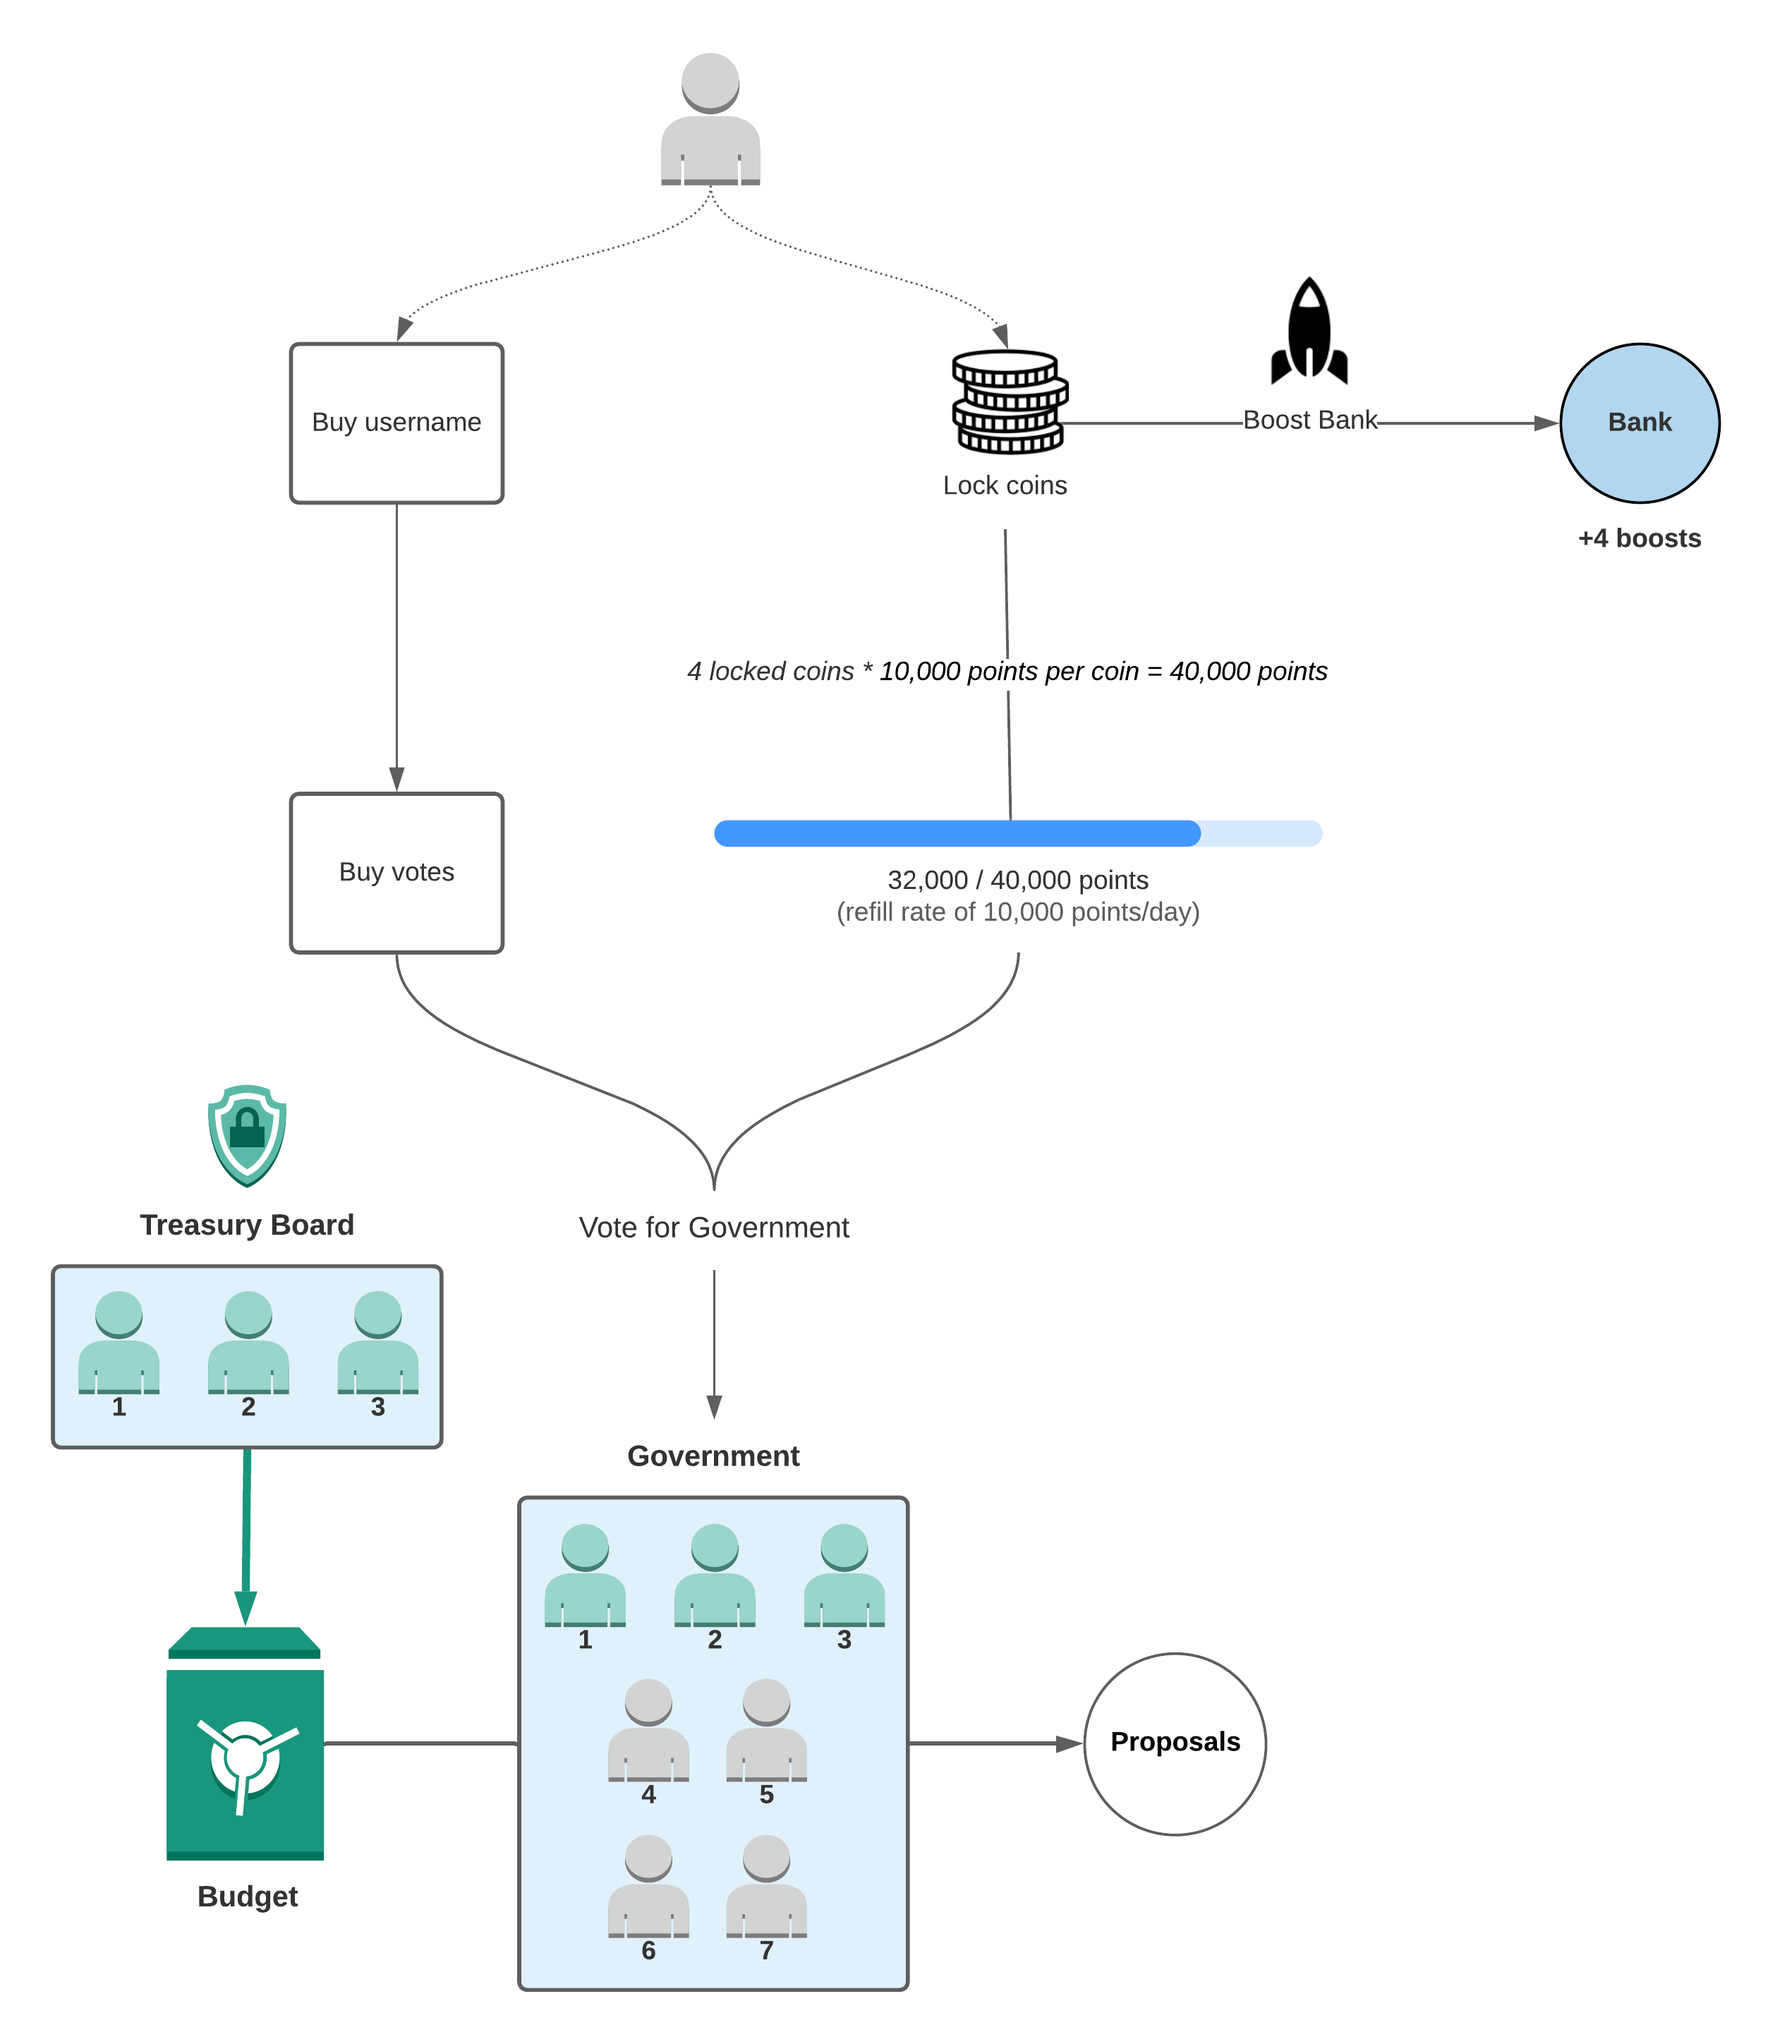
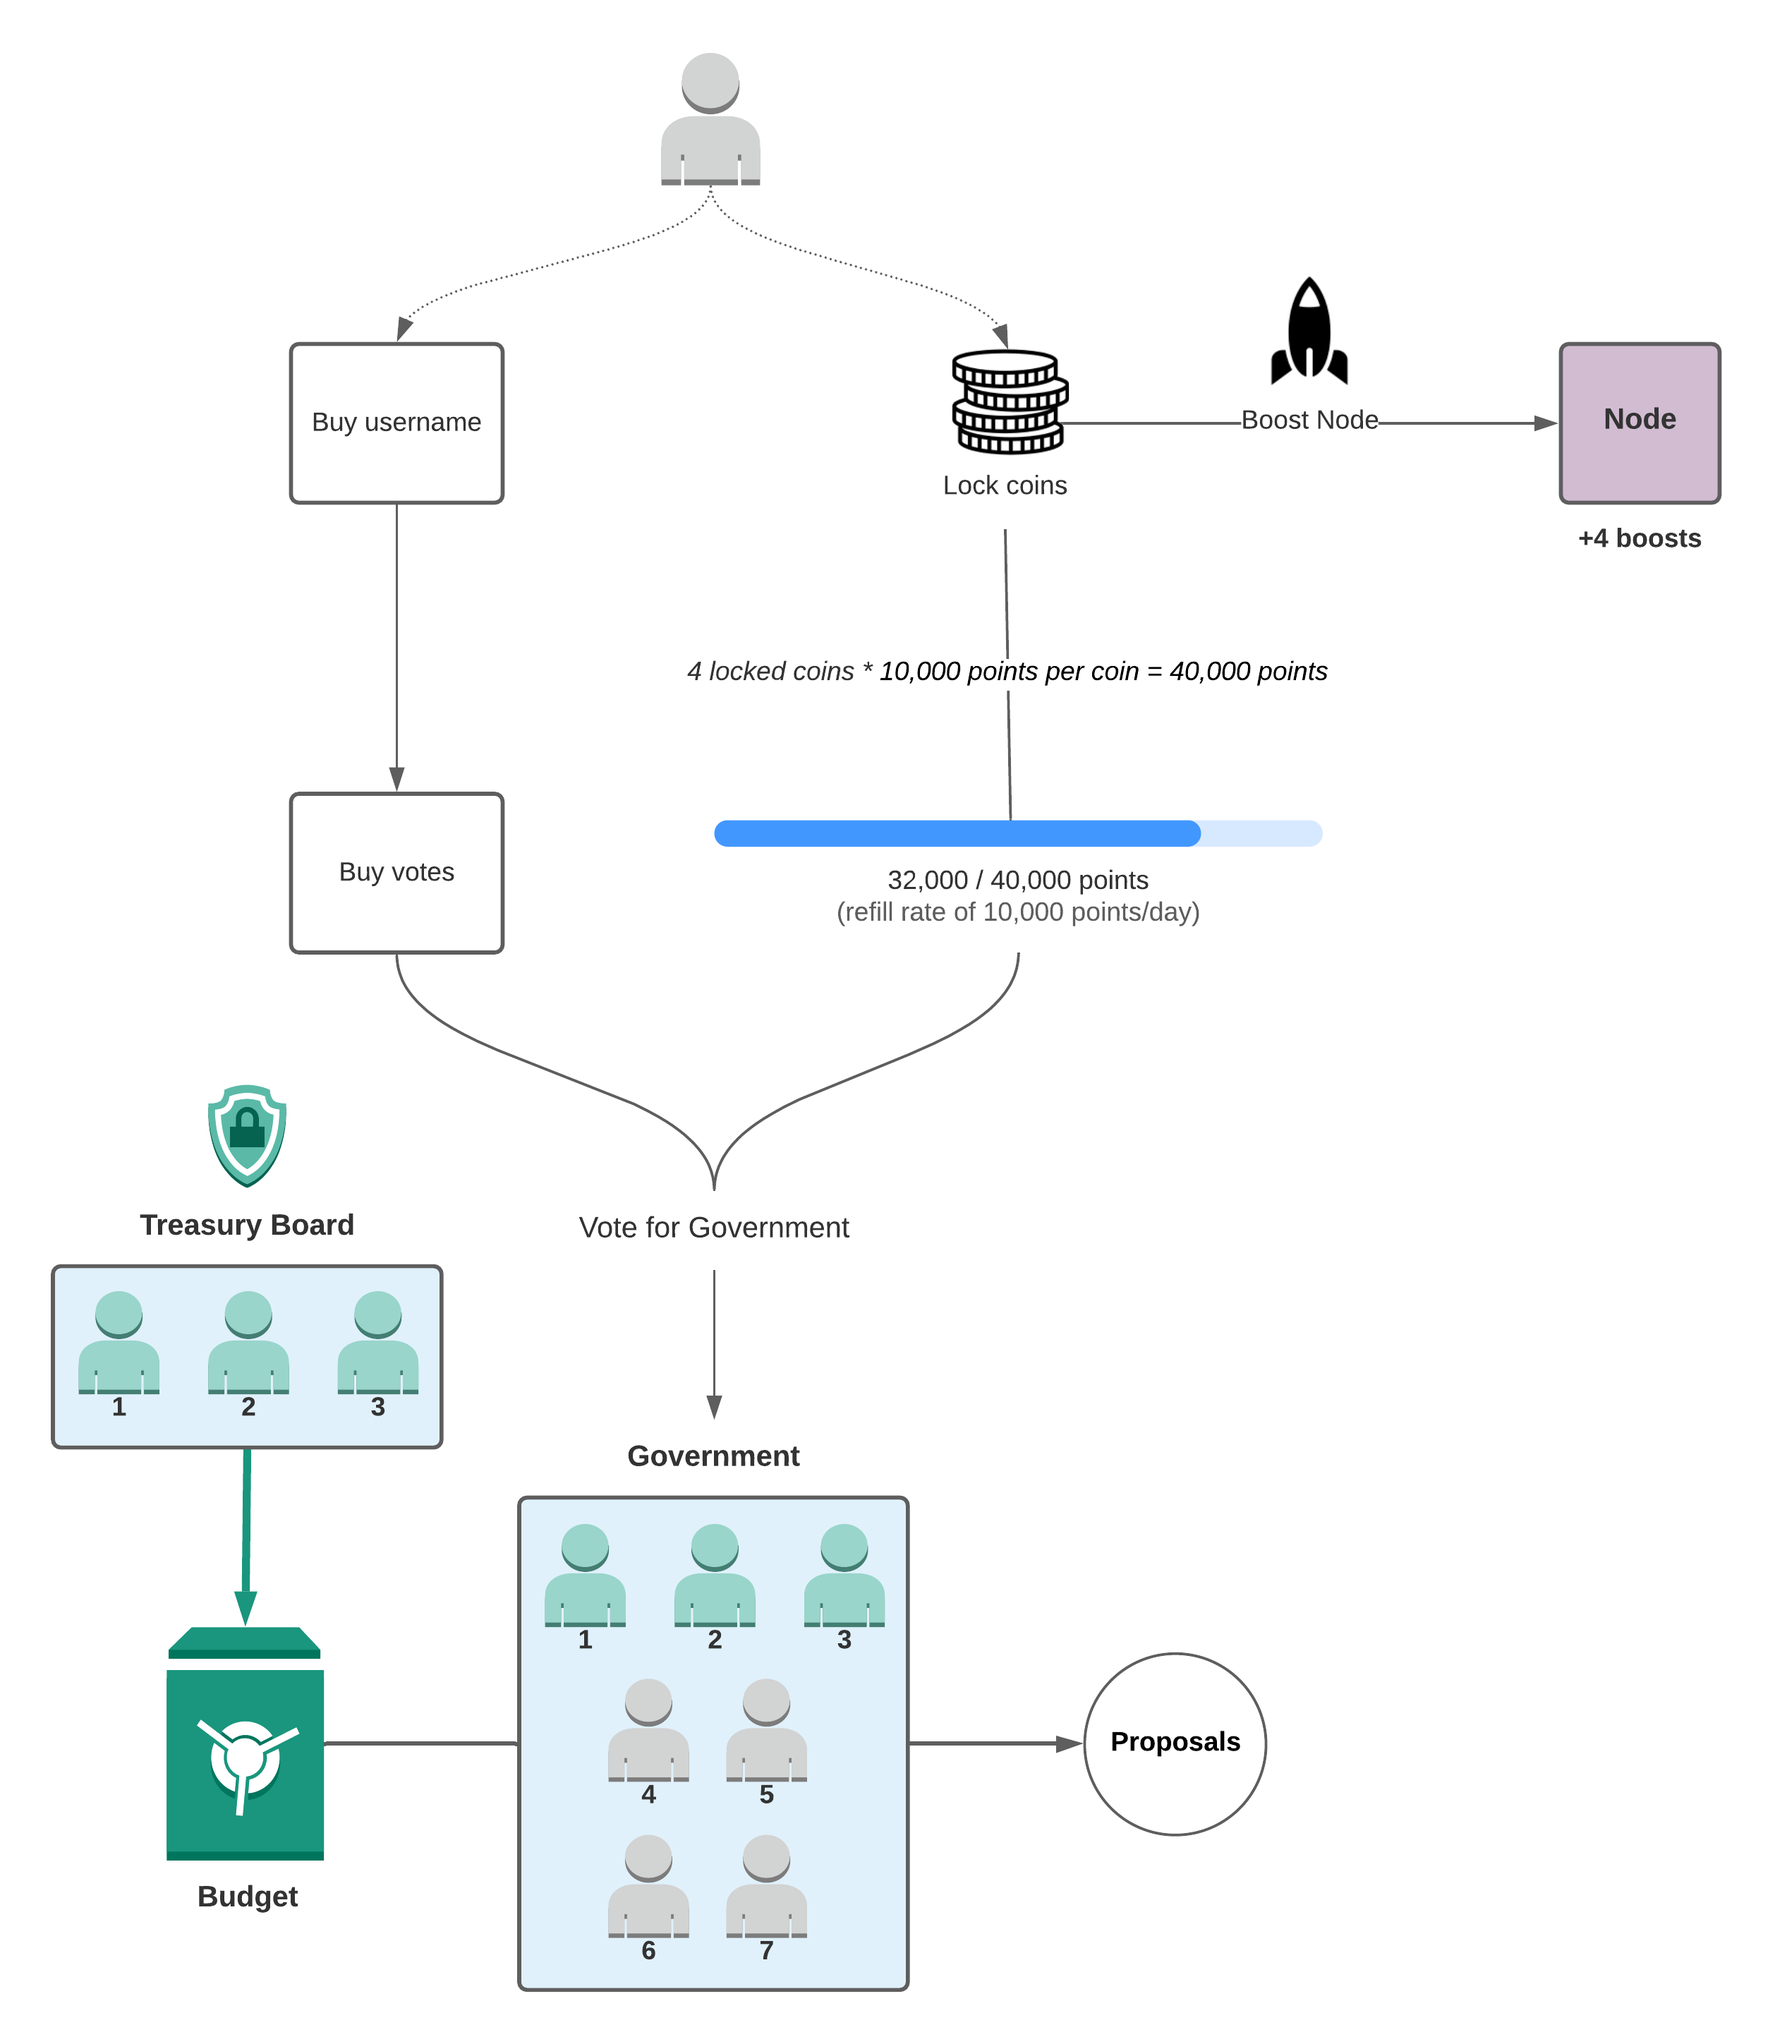
Governance doc updates

Changed region(s): [[0.868, 0.1553, 0.9921, 0.2485], [0.713, 0.1864, 0.775, 0.2175]]

diff --git a/src/containers/Governance/GovernanceLockedCoinsAndBoosting/index.tsx b/src/containers/Governance/GovernanceLockedCoinsAndBoosting/index.tsx
@@ -2,14 +2,14 @@ import React, {FC} from 'react';
 
 import {DocContainer, DocImage, DocList} from 'components';
 
-import BankBoosting from './BankBoosting.png';
+import NodeBoosting from './NodeBoosting.png';
 
-const GovernanceLockedCoinsAndBankBoosting: FC = () => {
+const GovernanceLockedCoinsAndBoosting: FC = () => {
   return (
     <DocContainer
-      className="GovernanceLockedCoinsAndBankBoosting"
-      title="Locked Coins & Bank Boosting"
-      lastUpdated="15 Feb 2021"
+      className="GovernanceLockedCoinsAndBoosting"
+      title="Locked Coins & Boosting"
+      lastUpdated="07 Mar 2021"
     >
       <p>
         Registered users have the ability to lock any amount of coins that they own. By locking coins, the network will
@@ -21,7 +21,7 @@ const GovernanceLockedCoinsAndBankBoosting: FC = () => {
 
       <DocList variant="ul">
         <li>Points</li>
-        <li>The ability to boost a Bank of their choosing</li>
+        <li>The ability to boost a node of their choosing</li>
       </DocList>
 
       <p>
@@ -32,14 +32,14 @@ const GovernanceLockedCoinsAndBankBoosting: FC = () => {
       </p>
 
       <p>
-        The top X boosted Banks in the network will act as delegates to elect a PV. The weight of a Bank's vote is equal
-        to the total amount of boosts they recieve. In the event of a tie, the X + 1 boosted Bank will break the tie.
-        The amount of locked coins along with the Bank the user chooses to boost will be stored on the blockchain.
+        The top X boosted nodes in the network will act as delegates to elect a PV. The weight of a nodes vote is equal
+        to the total amount of boosts they receive. In the event of a tie, the X + 1 boosted node will break the tie.
+        The amount of locked coins along with the node the user chooses to boost will be stored on the blockchain.
       </p>
 
-      <DocImage alt="bank-boosting" maxWidth={720} src={BankBoosting} />
+      <DocImage alt="node boosting" maxWidth={640} src={NodeBoosting} />
     </DocContainer>
   );
 };
 
-export default GovernanceLockedCoinsAndBankBoosting;
+export default GovernanceLockedCoinsAndBoosting;

diff --git a/src/containers/Governance/GovernanceElectionProcess/index.tsx b/src/containers/Governance/GovernanceElectionProcess/index.tsx
@@ -4,13 +4,9 @@ import {DocContainer, DocImage, DocList} from 'components';
 
 import ApplicationAndElectionProcess from './ApplicationAndElectionProcess.png';
 
-const GovernanceApplicationAndElectionProcess: FC = () => {
+const GovernanceElectionProcess: FC = () => {
   return (
-    <DocContainer
-      className="GovernanceApplicationAndElectionProcess"
-      title="Application & Election Process"
-      lastUpdated="15 Feb 2021"
-    >
+    <DocContainer className="GovernanceElectionProcess" title="Election Process" lastUpdated="07 Mar 2021">
       <p>
         Registered users can use points to apply for government positions. Once an application is submitted all
         registered users (excluding the candidate) can begin voting for that candidate. The top X candidates will be
@@ -18,20 +14,18 @@ const GovernanceApplicationAndElectionProcess: FC = () => {
         responsible for minting new coins.
       </p>
 
-      <DocImage alt="app;icationandelectionprocess" maxWidth={720} src={ApplicationAndElectionProcess} />
+      <DocImage alt="application and election process" maxWidth={560} src={ApplicationAndElectionProcess} />
 
       <p>
         The voting process is an ongoing process. Throughout the voting process, users can change or remove their vote
         at any time. Once a member of government has been elected, they will remain seated until bumped out by a higher
         voted applicant.
       </p>
-
       <p>
         All network actions including applying for government positions, updating applications, voting for applicants,
         etc… require the use of points. All actions and voting records will be publicly visible and stored on the
         blockchain.
       </p>
-
       <p>No government actions can be taken until the following requirements are met:</p>
 
       <DocList variant="ol">
@@ -42,4 +36,4 @@ const GovernanceApplicationAndElectionProcess: FC = () => {
   );
 };
 
-export default GovernanceApplicationAndElectionProcess;
+export default GovernanceElectionProcess;

diff --git a/src/containers/Governance/index.tsx b/src/containers/Governance/index.tsx
@@ -7,11 +7,11 @@ import {PageData, PageDataObject} from 'types/page-data';
 
 import GovernanceBudgets from './GovernanceBudgets';
 import GovernanceCoinsVsPoints from './GovernanceCoinsVsPoints';
-import GovernanceApplicationAndElectionProcess from './GovernanceApplicationAndElectionProcess';
-import GovernanceLockedCoinsAndBankBoosting from './GovernanceLockedCoinsAndBankBoosting';
+import GovernanceElectionProcess from './GovernanceElectionProcess';
+import GovernanceLockedCoinsAndBoosting from './GovernanceLockedCoinsAndBoosting';
+import GovernanceOverview from './GovernanceOverview';
 import GovernancePointsAndRefillLogic from './GovernancePointsAndRefillLogic';
 import GovernanceUsernamesAndVotes from './GovernanceUsernamesAndVotes';
-import GovernanceOverview from './GovernanceOverview';
 
 const defaultPageData: PageData = {
   content: <Redirect to="/governance/overview" />,
@@ -19,10 +19,6 @@ const defaultPageData: PageData = {
 };
 
 const pageData: PageDataObject = {
-  'application-and-election-process': {
-    content: <GovernanceApplicationAndElectionProcess />,
-    name: 'Application & Election Process',
-  },
   budgets: {
     content: <GovernanceBudgets />,
     name: 'Budgets',
@@ -31,9 +27,13 @@ const pageData: PageDataObject = {
     content: <GovernanceCoinsVsPoints />,
     name: 'Coins vs Points',
   },
-  'locked-coins-and-banking-boosting': {
-    content: <GovernanceLockedCoinsAndBankBoosting />,
-    name: 'Locked Coins & Bank Boosting',
+  'election-process': {
+    content: <GovernanceElectionProcess />,
+    name: 'Election Process',
+  },
+  'locked-coins-and-boosting': {
+    content: <GovernanceLockedCoinsAndBoosting />,
+    name: 'Locked Coins & Boosting',
   },
   overview: {
     content: <GovernanceOverview />,

diff --git a/src/containers/Governance/GovernanceOverview/index.tsx b/src/containers/Governance/GovernanceOverview/index.tsx
@@ -10,10 +10,7 @@ const GovernanceOverview: FC = () => {
       <TableVertical
         altColors
         rows={[
-          [
-            'Boosts',
-            'Locked coins that represent a users trust in a Bank to act as their representative when choosing a PV',
-          ],
+          ['Boosts', 'Locked coins that represent a users trust in a node to act as a network representative'],
           ['Budget', 'A shared account managed by the government that requires a multisig to access'],
           ['Daily Refill Rate', 'The rate at which points replenish per network day'],
           ['Government', 'A group of individuals elected by registered users to govern'],
@@ -27,7 +24,13 @@ const GovernanceOverview: FC = () => {
     );
   };
   return (
-    <DocContainer className="GovernanceOverview" title="Overview" lastUpdated="15 Feb 2021">
+    <DocContainer className="GovernanceOverview" title="Overview" lastUpdated="07 Mar 2021">
+      <p>
+        Our governance structure enables user voting for all core aspects of the network, both in terms of people and
+        nodes. Any user from the public is able to apply to become a governor where other users are then able to vote
+        for their desired candidates. The nodes that are responsible for the initial validation of transactions are also
+        chosen by the users through a "boosting" system as described in later sections.
+      </p>
       {renderGlossary()}
       <DocImage alt="governance-overview" maxWidth={1200} src={Overview} />
     </DocContainer>

diff --git a/src/containers/Governance/GovernanceUsernamesAndVotes/index.tsx b/src/containers/Governance/GovernanceUsernamesAndVotes/index.tsx
@@ -6,7 +6,7 @@ import {DocContainer} from 'components';
 
 const GovernanceUsernamesAndVotes: FC = () => {
   return (
-    <DocContainer className="GovernanceUsernamesAndVotes" title="Usernames & Votes" lastUpdated="15 Feb 2021">
+    <DocContainer className="GovernanceUsernamesAndVotes" title="Usernames & Votes" lastUpdated="07 Mar 2021">
       <p>
         Usernames may be purchased for a fee that will be paid directly to the budget (see{' '}
         <NavLink to="/governance/budgets">Budgets</NavLink>) and used in place of an account number. Usernames are
@@ -16,8 +16,8 @@ const GovernanceUsernamesAndVotes: FC = () => {
 
       <p>
         All usernames come with 1 vote by default which can be used to elect members of government (see{' '}
-        <NavLink to="/governance/application-and-election-process">Government Election Process</NavLink>). Once a
-        username has been registered, additional votes may be purchased for that username.
+        <NavLink to="/governance/election-process">Government Election Process</NavLink>). Once a username has been
+        registered, additional votes may be purchased for that username.
       </p>
     </DocContainer>
   );

diff --git a/src/containers/Governance/GovernanceBudgets/index.tsx b/src/containers/Governance/GovernanceBudgets/index.tsx
@@ -6,7 +6,7 @@ import Budgets from './Budgets.png';
 
 const GovernanceBudgets: FC = () => {
   return (
-    <DocContainer className="GovernanceBudgets" title="Budgets" lastUpdated="15 Feb 2021">
+    <DocContainer className="GovernanceBudgets" title="Budgets" lastUpdated="07 Mar 2021">
       <p>
         The existing Treasury will be burnt in favor of an updated minting process by the Treasury Board. Minted coins
         will be deposited into a budget (account) collectively managed by all members of government.
@@ -16,7 +16,7 @@ const GovernanceBudgets: FC = () => {
         similar to a multisig transaction.
       </p>
 
-      <DocImage alt="budgets" maxWidth={720} src={Budgets} />
+      <DocImage alt="budgets" maxWidth={760} src={Budgets} />
     </DocContainer>
   );
 };

diff --git a/src/components/DocsMenuItems/index.tsx b/src/components/DocsMenuItems/index.tsx
@@ -147,8 +147,8 @@ export const governanceNavigationData = [
     url: '/governance/usernames-and-votes',
   },
   {
-    name: 'Locked Coins & Bank Boosting',
-    url: '/governance/locked-coins-and-banking-boosting',
+    name: 'Locked Coins & Boosting',
+    url: '/governance/locked-coins-and-boosting',
   },
   {
     name: 'Points & Refill Logic',
@@ -159,8 +159,8 @@ export const governanceNavigationData = [
     url: '/governance/coins-vs-points',
   },
   {
-    name: 'Application & Election Process',
-    url: '/governance/application-and-election-process',
+    name: 'Election Process',
+    url: '/governance/election-process',
   },
   {
     name: 'Budgets',

diff --git a/src/containers/Governance/GovernancePointsAndRefillLogic/index.tsx b/src/containers/Governance/GovernancePointsAndRefillLogic/index.tsx
@@ -6,7 +6,7 @@ import DailyRefillRate from './DailyRefillRate.png';
 
 const GovernancePointsAndRefillLogic: FC = () => {
   return (
-    <DocContainer className="GovernancePointsAndRefillLogic" title="Points And Refill Logic" lastUpdated="15 Feb 2021">
+    <DocContainer className="GovernancePointsAndRefillLogic" title="Points And Refill Logic" lastUpdated="07 Mar 2021">
       <p>
         The network is unable to use human time as a reliable form of measurement due to challenges of syncing all
         global nodes which is needed for validation. In our network, time is measured in confirmation blocks. This

diff --git a/src/containers/Governance/GovernanceCoinsVsPoints/index.tsx b/src/containers/Governance/GovernanceCoinsVsPoints/index.tsx
@@ -4,7 +4,7 @@ import {DocContainer} from 'components';
 
 const GovernanceCoinsVsPoints: FC = () => {
   return (
-    <DocContainer className="GovernanceCoinsVsPoints" title="Coins Vs Points" lastUpdated="15 Feb 2021">
+    <DocContainer className="GovernanceCoinsVsPoints" title="Coins vs. Points" lastUpdated="07 Mar 2021">
       <p>
         The value of our coins will increase as more apps are developed that can be integrated into our network. All
         apps however require some form of user interaction. Some common app interactions include leaving comments,
